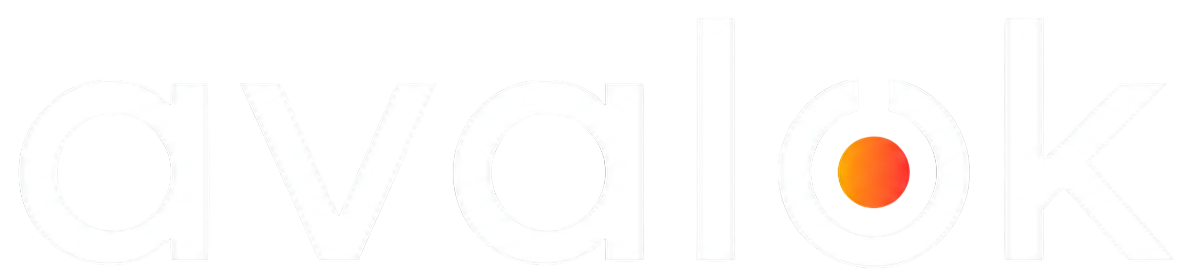
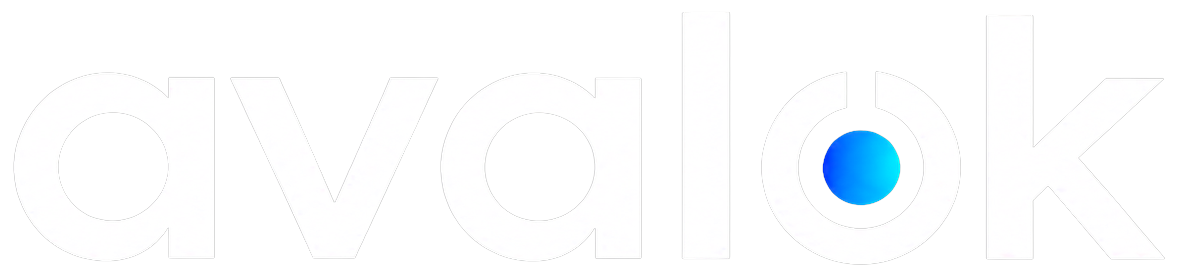
fix(brand): use dedicated transparent dark-mode wordmark instead of CSS invert; add docs social image

diff --git a/web/src/components/ui/AvalokLogo.tsx b/web/src/components/ui/AvalokLogo.tsx
@@ -22,13 +22,16 @@ interface WordmarkProps {
   height?: number
 }
 
-export function AvalokWordmark({ className, height = 20, forceInvert }: WordmarkProps & { forceInvert?: boolean }) {
+// Uses dedicated light/dark artwork. CSS invert would turn the blue dot orange.
+export function AvalokWordmark({ className, height = 20, onDark }: WordmarkProps & { onDark?: boolean }) {
+  const style = { height, width: 'auto' }
+  if (onDark) {
+    return <img src="/avalok-dark-mode.png" alt="avalok" className={cn('block', className)} style={style} />
+  }
   return (
-    <img
-      src="/avalok-5.png"
-      alt="avalok"
-      className={cn('block', forceInvert ? 'invert' : 'dark:invert', className)}
-      style={{ height, width: 'auto' }}
-    />
+    <>
+      <img src="/avalok-light-mode.png" alt="avalok" className={cn('block dark:hidden', className)} style={style} />
+      <img src="/avalok-dark-mode.png" alt="avalok" className={cn('hidden dark:block', className)} style={style} />
+    </>
   )
 }

diff --git a/web/src/components/Layout/Header.tsx b/web/src/components/Layout/Header.tsx
@@ -28,7 +28,7 @@ export default function Header({ theme, onThemeChange, breadcrumbs, connected, o
       {/* Logo + tagline */}
       <div className="flex items-center gap-3 shrink-0">
         <button onClick={onNavigateHome} className="cursor-pointer hover:opacity-70 transition-opacity">
-          <AvalokWordmark height={22} forceInvert />
+          <AvalokWordmark height={22} onDark />
         </button>
         <span className="text-[11px] text-white/40 italic hidden sm:inline">observe with clarity</span>
       </div>

diff --git a/web/DESIGN.md b/web/DESIGN.md
@@ -199,4 +199,5 @@ Every page follows the same skeleton:
 - **Layout gotchas:**
   - `#root` must never get `display:flex` (it breaks the full-width layout).
   - Wordmark sizes are 22px in the sidebar and 18px in the header.
+  - The logo is always `AvalokWordmark`. It swaps `avalok-light-mode.png` and `avalok-dark-mode.png` (both 1184×270, transparent, same framing) by theme. Use `onDark` for dark-only surfaces. Never CSS-`invert` the logo: that turns the blue dot orange.
 - **When server-facing behavior changes,** also update `docs/content/docs/server/*.md`.
